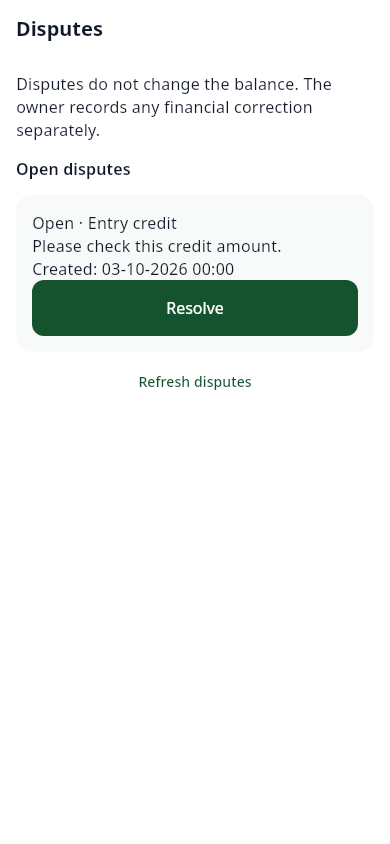
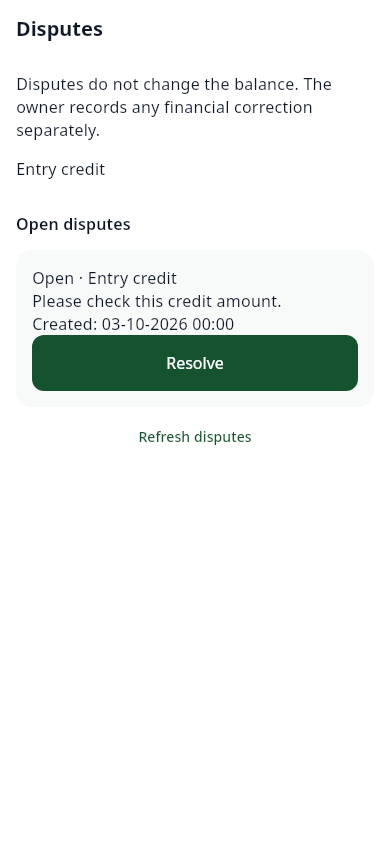
fix(ui): preserve owner account recovery and dispute target identity

Changed region(s): [[0.0308, 0.2464, 0.9231, 0.4621], [0.3385, 0.4929, 0.6462, 0.5237], [0.0308, 0.1848, 0.3385, 0.2156]]

diff --git a/udhaarkhata/lib/features/shop/owner_shell.dart b/udhaarkhata/lib/features/shop/owner_shell.dart
@@ -52,52 +52,53 @@ class OwnerShell extends ConsumerWidget {
           ],
         ),
         body: SafeArea(
-          child: shop.when(
-            loading: () => Center(
-              child: CircularProgressIndicator(
-                semanticsLabel: l.translate('Opening shop'),
-              ),
-            ),
-            error: (error, _) => ListView(
-              padding: const EdgeInsets.all(16),
-              children: [
-                const SyncStatusView(),
-                Text(
-                  l.translate('Could not open your shop'),
-                  style: Theme.of(context).textTheme.titleLarge,
-                ),
-                Text(
-                  errorMessage(
-                    error is AppFailure
-                        ? error.messageKey
-                        : 'api.internalError',
-                    languageCode: l.languageCode,
+          child: selected == 2
+              ? MorePage(
+                  role: AccountRole.owner,
+                  shopId: shop.asData?.value?.id.value,
+                )
+              : shop.when(
+                  loading: () => Center(
+                    child: CircularProgressIndicator(
+                      semanticsLabel: l.translate('Opening shop'),
+                    ),
                   ),
+                  error: (error, _) => ListView(
+                    padding: const EdgeInsets.all(16),
+                    children: [
+                      const SyncStatusView(),
+                      Text(
+                        l.translate('Could not open your shop'),
+                        style: Theme.of(context).textTheme.titleLarge,
+                      ),
+                      Text(
+                        errorMessage(
+                          error is AppFailure
+                              ? error.messageKey
+                              : 'api.internalError',
+                          languageCode: l.languageCode,
+                        ),
+                      ),
+                      TextButton(
+                        onPressed: () => ref.invalidate(currentShopProvider),
+                        child: Text(l.translate('Try again')),
+                      ),
+                      if (error is AppFailure &&
+                          (error.retryable || error.code == 'NETWORK_ERROR'))
+                        const SavedCustomersView(),
+                    ],
+                  ),
+                  data: (value) => value == null
+                      ? const ShopSetup()
+                      : switch (selected) {
+                          1 => OwnerCustomersView(shop: value),
+                          _ => OwnerHomeView(
+                            shop: value,
+                            onViewAll: () => context.go('/owner?tab=customers'),
+                            onSyncDetails: () => context.go('/owner?tab=more'),
+                          ),
+                        },
                 ),
-                TextButton(
-                  onPressed: () => ref.invalidate(currentShopProvider),
-                  child: Text(l.translate('Try again')),
-                ),
-                if (error is AppFailure &&
-                    (error.retryable || error.code == 'NETWORK_ERROR'))
-                  const SavedCustomersView(),
-              ],
-            ),
-            data: (value) => value == null
-                ? const ShopSetup()
-                : switch (selected) {
-                    1 => OwnerCustomersView(shop: value),
-                    2 => MorePage(
-                      role: AccountRole.owner,
-                      shopId: value.id.value,
-                    ),
-                    _ => OwnerHomeView(
-                      shop: value,
-                      onViewAll: () => context.go('/owner?tab=customers'),
-                      onSyncDetails: () => context.go('/owner?tab=more'),
-                    ),
-                  },
-          ),
         ),
         bottomNavigationBar: NavigationBar(
           selectedIndex: selected,

diff --git a/udhaarkhata/test/ui/role_navigation_test.dart b/udhaarkhata/test/ui/role_navigation_test.dart
@@ -1,14 +1,82 @@
+import 'dart:async';
+
 import 'package:flutter/material.dart';
 import 'package:flutter_riverpod/flutter_riverpod.dart';
 import 'package:flutter_test/flutter_test.dart';
+import 'package:flutter_secure_storage/flutter_secure_storage.dart';
 import 'package:udhaarkhata/app/app.dart';
 import 'package:udhaarkhata/app/router.dart';
 import 'package:udhaarkhata/core/auth/account.dart';
+import 'package:udhaarkhata/core/network/app_failure.dart';
 import 'package:udhaarkhata/features/auth/session_controller.dart';
+import 'package:udhaarkhata/features/shop/shop_repository.dart';
 
 import '../history_ui_test.dart' show HistoryAuth;
+import '../settings/settings_ui_test.dart' show TestPrivacyAuth;
+
+class RecoveryAuth extends TestPrivacyAuth {
+  RecoveryAuth() : super(AccountRole.owner);
+  int pendingReads = 0;
+  @override
+  Future<int> pendingCount() async {
+    pendingReads++;
+    return 2;
+  }
+}
 
 void main() {
+  setUp(() => FlutterSecureStorage.setMockInitialValues({}));
+  for (final state in ['no shop', 'loading', 'error']) {
+    testWidgets('owner More allows safe sign-out with shop $state', (
+      tester,
+    ) async {
+      final auth = RecoveryAuth();
+      final shop = Completer<Shop?>();
+      final container = ProviderContainer(
+        overrides: [
+          authRepositoryProvider.overrideWithValue(auth),
+          currentShopProvider.overrideWith((ref) => shop.future),
+        ],
+      );
+      addTearDown(container.dispose);
+      await tester.pumpWidget(
+        UncontrolledProviderScope(container: container, child: const MainApp()),
+      );
+      await tester.pump(const Duration(milliseconds: 100));
+      if (state == 'no shop') shop.complete(null);
+      if (state == 'error') {
+        shop.completeError(
+          const AppFailure(
+            'NETWORK_ERROR',
+            'api.networkError',
+            retryable: true,
+          ),
+        );
+      }
+      await tester.pump(const Duration(milliseconds: 100));
+      container.read(routerProvider).go('/owner?tab=more');
+      await tester.pump(const Duration(milliseconds: 500));
+      expect(find.text('Language'), findsOneWidget);
+      final signOut = find.text('Sign out');
+      expect(signOut, findsOneWidget);
+      await tester.ensureVisible(signOut);
+      await tester.tap(signOut);
+      await tester.pump(const Duration(milliseconds: 500));
+      expect(find.text('Sign out?'), findsOneWidget);
+      expect(
+        find.textContaining('2 pending entries will stay on this phone'),
+        findsOneWidget,
+      );
+      await tester.tap(find.text('Cancel'));
+      await tester.pump(const Duration(milliseconds: 500));
+      expect(
+        container.read(sessionProvider).asData?.value?.id.value,
+        auth.account.id.value,
+      );
+      expect(auth.pendingReads, 1);
+      expect(auth.posts, isEmpty);
+    });
+  }
   testWidgets('owner tabs and task Back preserve origin and role guard', (
     tester,
   ) async {

diff --git a/udhaarkhata/test/ui/dispute_context_test.dart b/udhaarkhata/test/ui/dispute_context_test.dart
@@ -52,6 +52,35 @@ class DelayedDisputes extends RecordingDisputes {
 
 void main() {
   testWidgets(
+    'new direct-linked dispute identifies target without a matching card',
+    (tester) async {
+      await tester.pumpWidget(
+        ProviderScope(
+          overrides: [
+            authRepositoryProvider.overrideWithValue(
+              HistoryAuth(AccountRole.customer),
+            ),
+            disputeRepositoryProvider.overrideWithValue(RecordingDisputes()),
+          ],
+          child: const MaterialApp(
+            home: DisputePage(
+              shopId: 'shop',
+              customer: true,
+              entryId: 'new-entry',
+            ),
+          ),
+        ),
+      );
+      await tester.pumpAndSettle();
+      expect(find.text('Entry new-entry'), findsOneWidget);
+      expect(find.textContaining('₹'), findsNothing);
+      expect(
+        find.widgetWithText(FilledButton, 'Raise dispute'),
+        findsOneWidget,
+      );
+    },
+  );
+  testWidgets(
     'wrong context uses ID and response resolves selected second card',
     (tester) async {
       final repo = RecordingDisputes();

diff --git a/udhaarkhata/lib/features/disputes/dispute_page.dart b/udhaarkhata/lib/features/disputes/dispute_page.dart
@@ -195,6 +195,13 @@ class _DisputePageState extends ConsumerState<DisputePage> {
                   ),
                 ),
               ),
+            if (!matchingContext && widget.entryId != null)
+              Padding(
+                padding: const EdgeInsets.symmetric(vertical: 16),
+                child: Text(
+                  '${AppStrings.of(context).translate('Entry')} ${widget.entryId}',
+                ),
+              ),
             if (snapshot != null) ...[
               if (snapshot.items.isEmpty)
                 Text(AppStrings.of(context).translate('No disputes yet.')),

diff --git a/docs/verification/ux01-evidence.md b/docs/verification/ux01-evidence.md
@@ -4,7 +4,7 @@
 > **Document map:** [Document map](../../DOCUMENT-MAP.md). **Read with:** [UX01 selected design](../superpowers/specs/2026-10-03-ux01-redesign-design.md) · [UX01 implementation plan](../superpowers/plans/2026-10-03-ux01-redesign.md) · [Implementation progress](../implementation/PROGRESS.md).
 <!-- DOC_NAV_END -->
 
-Date: 3 October 2026. Worktree `/workspace/ux01-redesign`, branch `codex/ux01-redesign`, original baseline `d75788a`. Status: presentation implementation and local checks complete; fresh whole-branch review and signed APK pending. This document does not claim physical Android acceptance, native-surface screenshots, real-user usability, Hindi-speaker review or public-use readiness.
+Date: 3 October 2026. Worktree `/workspace/ux01-redesign`, branch `codex/ux01-redesign`, original baseline `d75788a`. Status: presentation implementation, local checks and independent review/fix pass complete; signed APK and physical acceptance pending. This document does not claim physical Android acceptance, native-surface screenshots, real-user usability, Hindi-speaker review or public-use readiness.
 
 ## Verification boundaries
 
@@ -25,7 +25,7 @@ No backend/API/schema/repository/accounting changes are planned. UI-only integer
 
 ## Capture coverage
 
-[Capture manifest](ux01-captures/manifest.json) records 362 images: 292 redesigned widget renders and 70 immutable-baseline renders. Each row pins image SHA256, logical dimensions, locale/text scale, production source, synthetic fixture, scenario and inspection result. Source-file hashes pin the exact presentation and fixture files. The final immutable source checkpoint is `7c5d55566cf7d1684fecdd94ebf551c5fff04d5d`, recorded in the manifest; every listed source hash matches that commit.
+[Capture manifest](ux01-captures/manifest.json) records 362 images: 292 redesigned widget renders and 70 immutable-baseline renders. Each row pins image SHA256, logical dimensions, locale/text scale, production source, synthetic fixture, scenario and inspection result. Source-file hashes pin the exact presentation and fixture files. The initial immutable capture source is `7c5d55566cf7d1684fecdd94ebf551c5fff04d5d`. The final source hashes and20 review-fix renders are pinned to the final checkpoint below;272 unchanged redesign captures retain their original source reference.
 
 All 41 initial redesign contact sheets and all 12 baseline contact sheets were visually inspected with `view_image`. Initial inspection rejected 16 redesigned rows for untranslated validation, inconsistent fixture arithmetic/retry/cache state, missing Material ancestry or mislabeled long-name/overpayment scenarios. Root corrected those defects; changed/new images were inspected again across 14 followup contact sheets and final individual images. The final corrected-customer Hindi provenance label was localized, regenerated and inspected individually; all initially rejected rows are replaced and inspected. Final large-text validation images show the complete wrapped error text; controls remain reachable by scrolling, as checked by the owning form tests.
 
@@ -73,4 +73,31 @@ Root regression fixes retain their RED→GREEN evidence: statement shop identity
 2. Payment review retains its existing control tree and rejection/uncertain-attempt branches, using shared identity/receipt/theme components instead of forcing the generic review wrapper. The tradeoff is less component reuse; financial action availability and original retry bodies remain unchanged.
 3. Capture-helper style/key/import cleanup is presentation-neutral. Existing renderer evidence remains valid because production widgets and fixture state are unchanged; source hashes are refreshed and focused fixture tests rerun.
 
-Fresh review results and any deferred minor findings will be added here before delivery. Five native camera-runtime variants plus the phone acceptance matrix remain pending.
+Fresh review results and the single fix pass are recorded below. Five native camera-runtime variants plus the phone acceptance matrix remain pending.
+
+## Prepared signed build invocation
+
+Local candidate source will be pinned to the final review-fix commit below. Branch: `codex/ux01-redesign`. The existing `.github/workflows/apk-download.yml` accepts this full immutable SHA and restores the existing stable key; it refuses to generate a replacement key.
+
+After explicit remote authorization, push the reviewed branch and run:
+
+```sh
+gh workflow run apk-download.yml --repo magan110/UdharKhataApp \
+  -f source_ref=FINAL_REVIEWED_SOURCE_SHA \
+  -f api_base_url=https://udhaarkhata-api-staging.udhaarkhata-api.workers.dev \
+  -f google_server_client_id=1098240805044-90hnifajs9hvtvcive1d65r3q2cqnu03.apps.googleusercontent.com \
+  -f expected_signing_sha1=3C:CE:D2:62:9B:40:A7:5F:ED:A4:DB:DA:AB:21:E3:57:96:9F:16:C6
+```
+
+Before phone delivery, inspect the downloaded exact artifact's package `com.udhaarkhata.app`, version `0.3.0+3`, stable signer above, embedded endpoint/audience and SHA256 against `apk-audit.json`; record run/artifact IDs and file size/hash. Update over D21 without uninstalling or clearing app storage. No backend deployment is necessary. This is a prepared command, not a dispatched build or produced APK.
+
+## Independent final review and fix pass (4 October 2026)
+
+Fresh-context reviewer `ux01_final_review` (`gpt-6-astra`) reviewed immutable `d75788a..d776a985030825e713541a91e74d4536767b0c60`, governing design/plan, production diff, selected captures and 14 focused tests (all pass). No Critical finding or additional confirmed accounting, retry, snapshot or selected-response regression was found. Reviewer identified:
+
+- **Important:** Owner More/sign-out was inside the successful non-null shop branch, blocking account recovery during no-shop setup, loading or error. Fixed by rendering account-level More independently, with optional shop actions. Three actual-router tests failed before the fix, then verified Sign out opens the Pending warning and Cancel preserves the signed-in account and makes no write. RED log `/tmp/ux01-signout-red.log`; focused GREEN `/tmp/ux01-review-fixes-green.log`.
+- **Originally Minor, root regraded Important:** A fresh direct-linked dispute without matching context/card could show the report form without its target entry. The approved spec requires an honest entry-ID fallback; root treats a missing submission target as a functional gap. Fixed with localized `Entry <ID>` independent of existing cards, without inventing an amount. New no-matching-card test failed first (`/tmp/ux01-dispute-id-red.log`), then passed in the same nine-test focused GREEN batch.
+
+Single review fix pass completed. There are **no deferred minor findings**. Twenty affected owner-More/dispute renders pass (`/tmp/ux01-review-captures.log`); four changed English/Hindi images were inspected individually, and the other 16 remain identical. Final full regression after these fixes: **266 tests pass**, **87.73% line coverage (4,976/5,672)**, `/tmp/ux01-reviewed-suite.log`. Analysis is clean (`/tmp/ux01-reviewed-analyze.log`); formatting153 files zero changes; release-static298 text files, coverage threshold, documentation49 files/navigation and diff checks pass. No core/backend/repository/lockfile changes; generated desktop tooling noise restored. Reviewer could not establish physical camera/Google/share/TalkBack/Hindi-font/signing acceptance and did not produce an APK.
+
+Additional execution ruling: root regraded the direct-link target-ID issue because reporting needs a visible target even before any dispute exists. The cost is an extra ID label on matching-card screens; this does not alter the ledger or dispute API. The branch remains isolated for reviewed APK preparation; no merge, push or publication has occurred.

diff --git a/docs/implementation/PROGRESS.md b/docs/implementation/PROGRESS.md
@@ -521,3 +521,7 @@ Checkpoints `f55ff62` and `8d66dce` implement role-tab navigation and Back behav
 ### UX01 local redesign verification (3 October 2026)
 
 The dedicated agent completed presentation Tasks 1–9. Root finalized workspace source/freshness, statement identity/snapshot and Hindi large-text validation/provenance fixes. Full regression: 262 pass, 87.61% line coverage; analysis clean; formatting/documentation pass. Capture manifest pins 292 inspected redesign and 70 immutable-baseline synthetic images, with 129 required variant records. Independent final review is next. Local APK build is blocked by absent Android SDK; existing stable-key CI invocation is prepared after review. No redesigned APK or physical acceptance is claimed; five native scanner-runtime variants and the full phone matrix remain pending. See [complete evidence](../verification/ux01-evidence.md).
+
+### UX01 independent review and final local candidate (4 October 2026)
+
+Fresh-context review of `d75788a..d776a985` found shop-state-gated owner sign-out (Important) and a missing fresh direct-link dispute target ID (reviewer Minor, root regraded functional). Both fixed in one RED→GREEN pass: More accessible without a ready shop, Pending warning/Cancel preserved, and localized entry-ID fallback without invented amount. Nine focused tests and20 affected renderer tests pass; four changed captures individually inspected. Final full suite266pass,87.73% coverage(4,976/5,672); analysis,format,docs/navigation,static-release,coverage/diff checks pass. No deferred review finding. Stable signed APK build needs explicit remote push/workflow authorization under AGENTS; local Android SDK unavailable. All physical/native/pilot gates remain pending. Complete rulings, review, invocation and phone matrix are in [UX01 evidence](../verification/ux01-evidence.md).

diff --git a/docs/implementation/06-ui-ux-redesign.md b/docs/implementation/06-ui-ux-redesign.md
@@ -4,7 +4,7 @@
 > **Document map:** [Document map](../../DOCUMENT-MAP.md). **Read with:** [UI/UX agent brief](../agents/ui-ux-redesign-agent.md) · [UI/UX spec](../../UI-UX-DESIGN-SPEC.md) · [Wireframes](../../WIREFRAMES.md) · [Implementation progress](PROGRESS.md).
 <!-- DOC_NAV_END -->
 
-Date: 3 October 2026. Status: phase created; initial source discovery complete; user selected option 1; complete full-app specification approved; implementation plan approved; isolated presentation implementation and local verification complete; independent review and signed APK pending.
+Date: 3 October 2026. Status: phase created; initial source discovery complete; user selected option 1; complete full-app specification approved; implementation plan approved; isolated presentation implementation, local verification and independent review/fixes complete; signed APK and phone acceptance pending.
 
 ## Mandate and ownership
 
@@ -87,7 +87,7 @@ The app-wide theme/navigation change is architectural: establish the design brie
 - [x] Review complete written app design specification: user approved on 3 October 2026.
 - [x] Review completed implementation plan: user approved on 3 October 2026.
 - [x] Execute redesigned UI and record task evidence.
-- [ ] Complete screen/state coverage and regression/visual verification: local checks and 292 redesigned synthetic renders complete; independent review/native phone variants pending.
+- [x] Complete local screen/state coverage and regression/visual verification:292 inspected redesigned renders,266 tests,87.73% coverage and independent review/fixes; native phone variants pending.
 - [ ] Deliver redesigned APK and record phone acceptance.
 
 ## Initial dedicated-agent discovery (3 October 2026)
